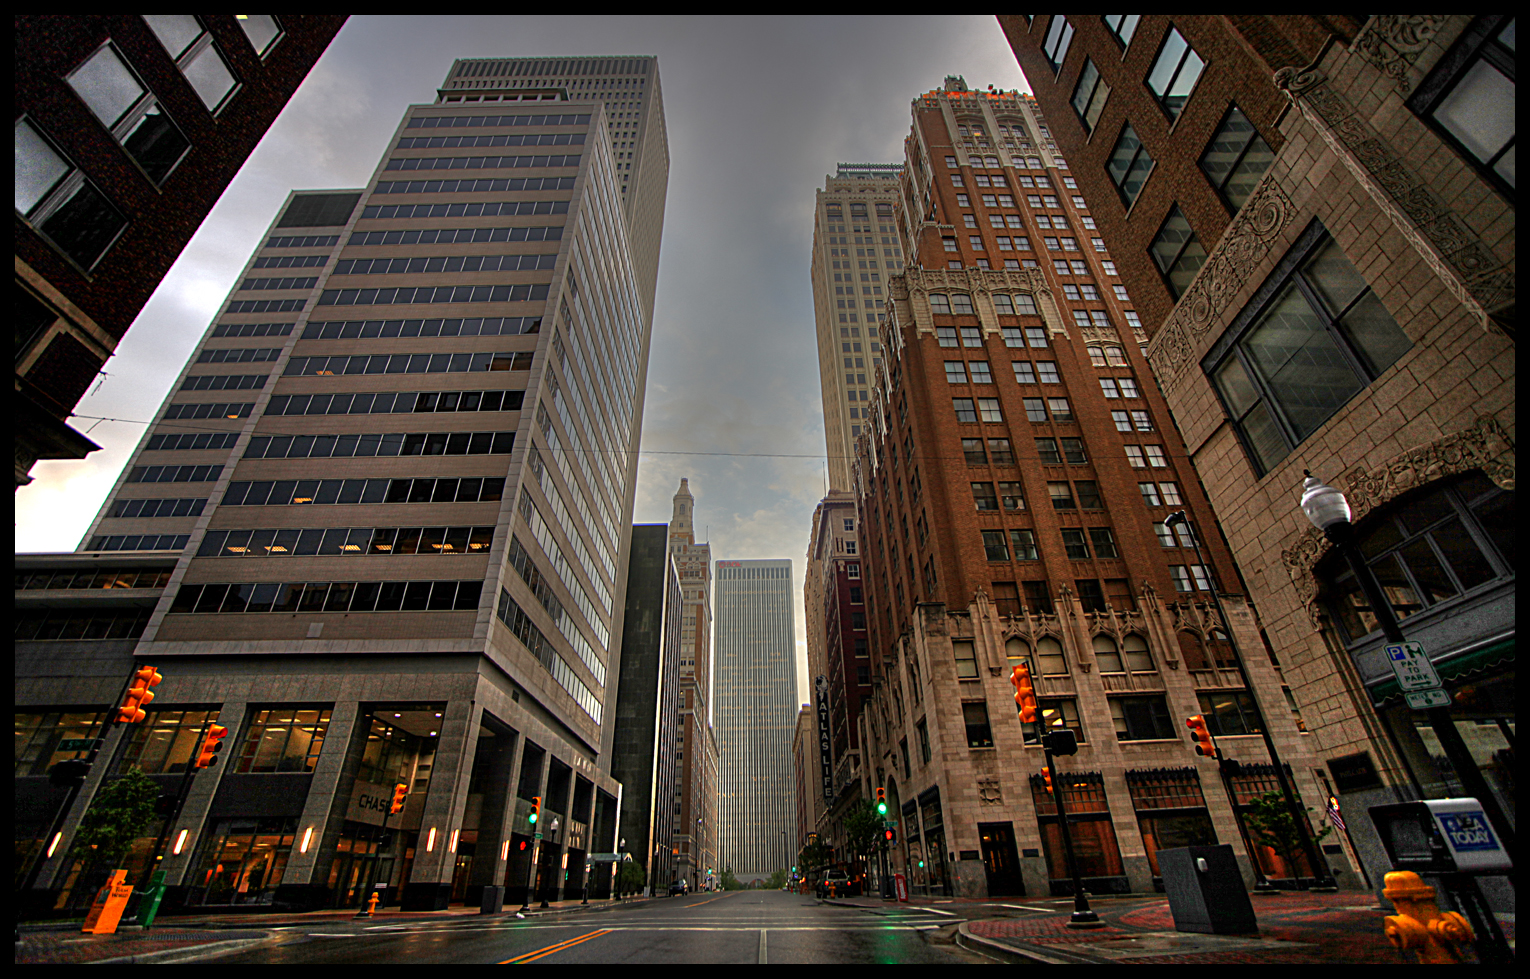
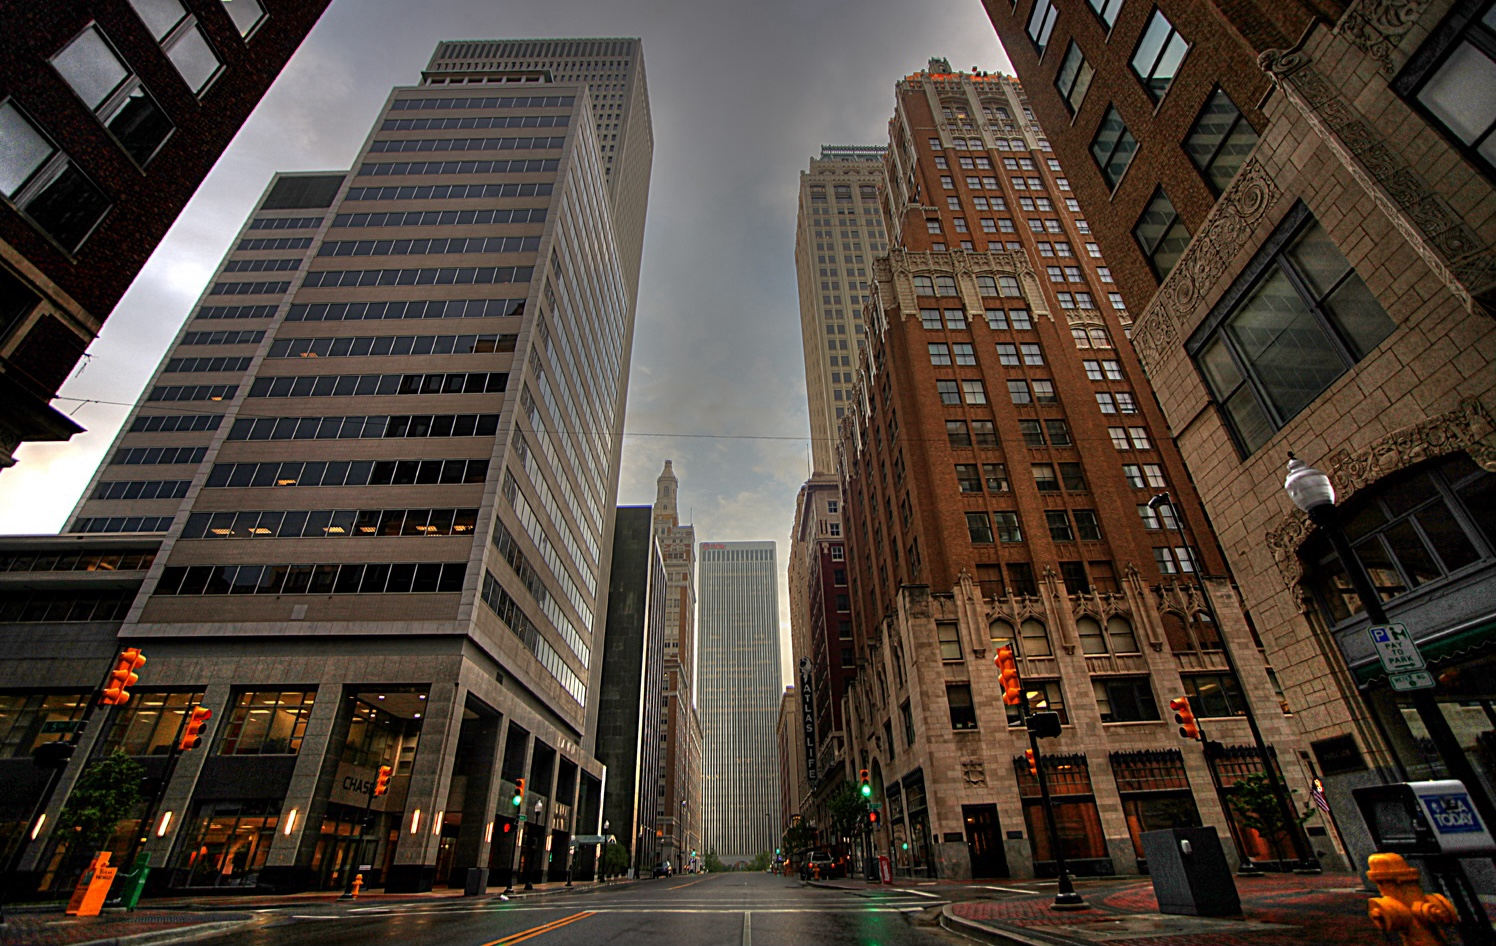
Added header content and style

diff --git a/styles.css b/styles.css
@@ -1,7 +1,66 @@
-h1 {
+body {
   font-family: "Poppins", sans-serif;
+}
+.container {
+  max-width: 1450px;
+  margin: 0 auto;
+}
+header {
+  color: white;
+  background-image: linear-gradient(
+      rgba(124, 133, 140, 0.2),
+      rgba(124, 133, 140, 0.3)
+    ),
+    url("/media/BOK.jpg");
+  background-repeat: no-repeat;
+  background-size: cover;
+  line-height: 1.5;
+  padding: 225px;
+  text-align: center;
+}
+h1 {
   font-size: 96px;
   font-weight: 700;
-  line-height: 144px;
+  margin: 0;
+}
+h2 {
+  font-weight: 400;
+  font-size: 40px;
+  margin: 0;
+}
+h3 {
+  font-weight: 900;
+  font-size: 24px;
+  letter-spacing: 5px;
+  margin: 0;
+}
+
+header a {
+  background: white;
+  color: black;
+  display: inline-block;
+  font-weight: 700;
+  font-size: 14px;
+  letter-spacing: 3px;
+  margin-top: 32px;
+  padding: 16px 32px;
+  text-decoration: none;
+  text-transform: uppercase;
+}
+footer {
   text-align: center;
+}
+@media (max-width: 900px) {
+  header {
+    padding: 60px 0;
+  }
+  h1 {
+    font-size: 48px;
+  }
+  h2 {
+    font-size: 20px;
+  }
+  height: {
+    font-size: 12px;
+  }
 }

diff --git a/index.html b/index.html
@@ -10,13 +10,22 @@
       rel="stylesheet"
     />
     <link rel="stylesheet" href="styles.css" />
-    <title>Tulsa, OK</title>
+    <title>Travel | Tulsa, OK</title>
   </head>
   <body>
-    <h1>Welcome to Tulsa</h1>
-    <footer>
-      Coded by
-      <a href="https://www.jennahcodes.org" target="_blank">Jennah Applebaum</a>
-    </footer>
+    <div class="container">
+      <header>
+        <h3>.TRAVEL.</h3>
+        <h1>Welcome to Tulsa</h1>
+        <h2>City in Oklahoma, USA</h2>
+        <a href="#more">Learn More</a>
+      </header>
+      <footer>
+        Coded by
+        <a href="https://www.jennahcodes.org" target="_blank"
+          >Jennah Applebaum</a
+        >
+      </footer>
+    </div>
   </body>
 </html>
